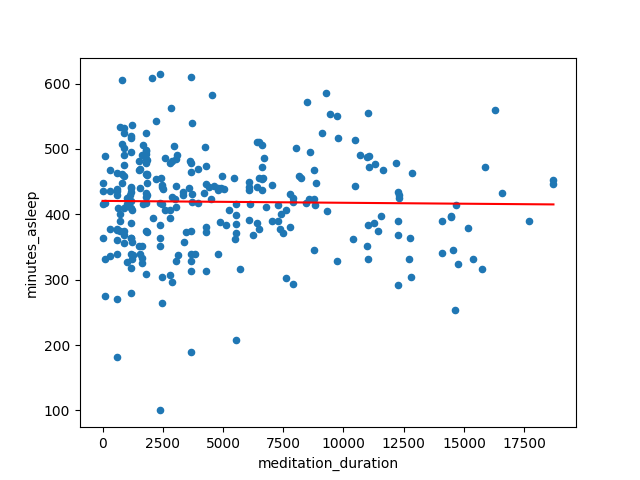
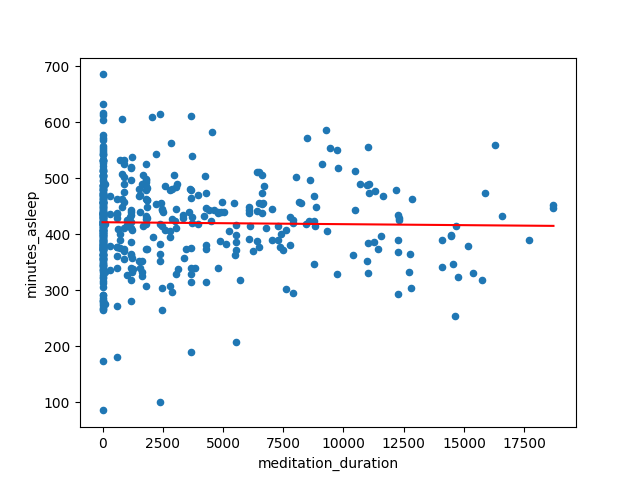
Expanded on expansion, better meditation code.

diff --git a/code/increasing/meditation.py b/code/increasing/meditation.py
@@ -109,12 +109,29 @@ aggregated=pd.merge_asof(sleep, checkpoints, left_on='start_time', right_on='che
 aggregated=aggregated[relevant_sleep_cols+['checkpoint']].groupby('checkpoint').sum()
 aggregated.reset_index(inplace=True)
 
-aggregated=pd.merge(aggregated, meditations, how='cross')
-aggregated=aggregated.loc[
-	(aggregated['checkpoint']-aggregated['meditation_end']<pd.Timedelta(backwards_horizon)) &
-	(aggregated['checkpoint']-aggregated['meditation_end']>pd.Timedelta('0d'))]
+daily_meditation = pd.DataFrame()
+daily_meditation['checkpoint'] = pd.date_range(start=first_sleep - pd.Timedelta(backwards_horizon), end=last_sleep, freq='1d') + pd.Timedelta('18h')
 
-aggregated=aggregated.groupby('checkpoint').agg({'meditation_duration': 'sum'} | {col: 'min' for col in relevant_sleep_cols})
+# Initialize with zero meditation time
+daily_meditation['meditation_duration'] = 0
+
+# For each meditation session, calculate which checkpoint it belongs to
+for _, meditation in meditations.iterrows():
+	# Find checkpoints that this meditation might affect (within backwards_horizon)
+	relevant_checkpoints = daily_meditation.loc[
+		(daily_meditation['checkpoint'] - meditation['meditation_end'] < pd.Timedelta(backwards_horizon)) &
+		(daily_meditation['checkpoint'] - meditation['meditation_end'] > pd.Timedelta('0d'))
+	]
+
+	# Add this meditation's duration to those checkpoints
+	if not relevant_checkpoints.empty:
+		daily_meditation.loc[relevant_checkpoints.index, 'meditation_duration'] += meditation['meditation_duration']
+
+# Merge sleep data with meditation data (left join to keep all sleep data)
+aggregated = pd.merge(aggregated, daily_meditation, on='checkpoint', how='left')
+
+# Fill any NaN meditation durations with 0 (for days with no meditation in range)
+aggregated['meditation_duration'] = aggregated['meditation_duration'].fillna(0)
 no_outliers=aggregated.loc[aggregated['meditation_duration']<8*3600]
 
 field='minutes_asleep'

diff --git a/nootropics.md b/nootropics.md
@@ -1,7 +1,7 @@
 [home](./index.md)
 -------------------
 
-*author: niplav, created: 2023-01-06, modified: 2025-02-01, language: english, status: maintenance, importance: 3, confidence: likely*
+*author: niplav, created: 2023-01-06, modified: 2025-04-14, language: english, status: maintenance, importance: 3, confidence: likely*
 
 > __Modeled after [Gwern 2018](https://www.gwern.net/Nootropics) I've
 decided to log my nootropics usage and its effects.__
@@ -663,13 +663,19 @@ link to PredictionBook/Fatebook.
 | `$\lambda<10$` for productivity values                                                                        |                                                      |                  | [60%](https://fatebook.io/q/-10-for-the-productivity-values-for--cln3nbkbo0003l708mzjft66f)    | Yes                | [70%](https://fatebook.io/q/-10-for-vitamin-d-productivity-values--cm73qxj6i0004nj9a9xplimvl)  |                    |
 | `$\lambda<10$` for creativity values                                                                          |                                                      |                  | [70%](https://fatebook.io/q/-10-for-the-creativity-values-for--cln3nbtwu0001jn08f6top2si)      | Yes                | [75%](https://fatebook.io/q/-10-for-vitamin-d-productivity-values--cm73qxj6i0004nj9a9xplimvl)  |                    |
 | __Subjective length__                                                                                         |                                                      |                  |                                                                                                |                    |                                                                                                |                    |
-| The average subjective length of intervention days was higher placebo days                                    |                                                      |                  |                                                                                                |                    | 60%                                                                                            |                    |
-| The average variance of subjective length of intervention days was higher than placebo days                   |                                                      |                  |                                                                                                |                    | 60%                                                                                            |                    |
-| `$\lambda<1$` for subjective length values                                                                    |                                                      |                  |                                                                                                |                    | 4%                                                                                             |                    |
-| `$\lambda<4$` for subjective length values                                                                    |                                                      |                  |                                                                                                |                    | 22%                                                                                            |                    |
-| `$\lambda<10$` for subjective length values                                                                   |                                                      |                  |                                                                                                |                    | 75%                                                                                            |                    |
+| The average subjective length of intervention days was higher placebo days                                    |                                                      |                  |                                                                                                |                    | [60%](The average subjective length of vitamin intervention days was higher placebo days)      |                    |
+| The average variance of subjective length of intervention days was higher than placebo days                   |                                                      |                  |                                                                                                |                    | [60%](https://fatebook.io/q/the-average-variance-of-subjective--cm9hffqiu0000q1mmr2lckvnz)     |                    |
+| `$\lambda<1$` for subjective length values                                                                    |                                                      |                  |                                                                                                |                    | [4%](https://fatebook.io/q/-1-for-vitamin-d-subjective-length--cm9hfgscj0001sodoy7lw1npg)      |                    |
+| `$\lambda<4$` for subjective length values                                                                    |                                                      |                  |                                                                                                |                    | [22%](https://fatebook.io/q/-4-for-vitamin-d-subjective-length--cm9hfhrrp00022thg02nqhjz2)     |                    |
+| `$\lambda<10$` for subjective length values                                                                   |                                                      |                  |                                                                                                |                    | [75%](https://fatebook.io/q/-10-for-vitamin-d-subjective-length--cm9hfil55000113sf6o9allpo)    |                    |
 
-I also recorded my predictions about the content of the pill on PredictionBook (Caffeine: [1](https://predictionbook.com/predictions/211311) [2](https://predictionbook.com/predictions/211312) [3](https://predictionbook.com/predictions/211313) [4](https://predictionbook.com/predictions/211314) [5](https://predictionbook.com/predictions/211857) [6](https://predictionbook.com/predictions/211858) [7](https://predictionbook.com/predictions/211859) [8](https://predictionbook.com/predictions/211860) [9](https://predictionbook.com/predictions/211861) [10](https://predictionbook.com/predictions/211862) [11](https://predictionbook.com/predictions/211863) [12](https://predictionbook.com/predictions/211864) [13](https://predictionbook.com/predictions/211865) [14](https://predictionbook.com/predictions/211866) [15](https://predictionbook.com/predictions/211867) [16](https://predictionbook.com/predictions/211868) [17](https://predictionbook.com/predictions/211869) [18](https://predictionbook.com/predictions/211870) [19](https://predictionbook.com/predictions/211871) [20](https://predictionbook.com/predictions/211872) [21](https://predictionbook.com/predictions/211873) [22](https://predictionbook.com/predictions/211874) [23](https://predictionbook.com/predictions/211875) [24](https://predictionbook.com/predictions/211876) [25](https://predictionbook.com/predictions/211877) [26](https://predictionbook.com/predictions/211878) [27](https://predictionbook.com/predictions/211879) [28](https://predictionbook.com/predictions/211880) [29](https://predictionbook.com/predictions/211967) [30](https://predictionbook.com/predictions/211968) [31](https://predictionbook.com/predictions/211969) [32](https://predictionbook.com/predictions/211970) [33](https://predictionbook.com/predictions/211971) [34](https://predictionbook.com/predictions/211972) [35](https://predictionbook.com/predictions/211973) [36](https://predictionbook.com/predictions/211974) [37](https://predictionbook.com/predictions/211975) [38](https://predictionbook.com/predictions/211976) [39](https://predictionbook.com/predictions/211881) [40](https://predictionbook.com/predictions/211882) [41](https://predictionbook.com/predictions/211883) [42](https://predictionbook.com/predictions/211884) [43](https://predictionbook.com/predictions/211885) [44](https://predictionbook.com/predictions/211886) [45](https://predictionbook.com/predictions/211887) [46](https://predictionbook.com/predictions/211888) [47](https://predictionbook.com/predictions/211889) [48](https://predictionbook.com/predictions/211890) [49](https://predictionbook.com/predictions/211891) [50](https://predictionbook.com/predictions/211892)) and Fatebook (L-theanine: [1](https://fatebook.io/q/b-1-was-l-theanine--cln3nlpzp0003lf0884psl2ib), [2](https://fatebook.io/q/b-2-was-l-theanine--cln3nlyxb0005lf08k0rajsdn), [3](https://fatebook.io/q/b-3-was-l-theanine--cln3nm7fe0007lf088nhg6c6c), [4](https://fatebook.io/q/b-4-was-l-theanine--cln3nmf250009lf08dxxykycc), [5](https://fatebook.io/q/b-5-was-l-theanine--cln3nmqpk000blf08qwo2g3fh), [6](https://fatebook.io/q/b-6-was-l-theanine--cln3nn1km000dlf088dneeojq), [7](https://fatebook.io/q/b-7-was-l-theanine--cln3nndil0001l6089v0s4ech), [8](https://fatebook.io/q/b-8-was-l-theanine--cln3nnotx0001l308a3d6yl3i), [9](https://fatebook.io/q/b-9-was-l-theanine--cln3nnzjk0001jg088mzwzaj9), [10](https://fatebook.io/q/b-10-was-l-theanine--cln3no8yp0005jy08nf3d6l5i), [11](https://fatebook.io/q/b-11-was-l-theanine--cln3noi4l0007jy08zy3rakyj), [12](https://fatebook.io/q/b-12-was-l-theanine--cln3nov1a0005l708x511km76), [13](https://fatebook.io/q/b-13-was-l-theanine--cln3np7ky0003mm08laa92q7k), [14](https://fatebook.io/q/b-14-was-l-theanine--cln3npguy0003l608jrpz8rl5), [15](https://fatebook.io/q/b-15-was-l-theanine--cln3npnq50005l6081tsw7nm4), [16](https://fatebook.io/q/b-16-was-l-theanine--cln3npydv0001mw089qn8n3i3), [17](https://fatebook.io/q/b-17-was-l-theanine--cln3nq5cd0009l3088vb790kx), [18](https://fatebook.io/q/b-18-was-l-theanine--cln3nqdb2000bl308j0zp8szo), [19](https://fatebook.io/q/b-19-was-l-theanine--cln3nqjwz000dl3086mhgtx0c), [20](https://fatebook.io/q/b-20-was-l-theanine--cln3nqs180009jy085s7hcb2j), [21](https://fatebook.io/q/b-21-was-l-theanine--cln3nr0n20009lc08gvz8dyqv), [22](https://fatebook.io/q/b-22-was-l-theanine--cln3nr6vl000blc08jvlqkop4), [23](https://fatebook.io/q/b-23-was-l-theanine--cln3nrdzp0001mb08hnsfx62p), [24](https://fatebook.io/q/b-24-was-l-theanine--cln3nrlwf0001lf08ze31fei4), [25](https://fatebook.io/q/b-25-was-l-theanine--cln3nrrj80003lf08oxvumyol), [26](https://fatebook.io/q/b-26-was-l-theanine--cln3nrz1e0003mb08lgpjnfcp), [27](https://fatebook.io/q/b-27-was-l-theanine--cln3ns73t0003mn0847juzfs6), [28](https://fatebook.io/q/b-28-was-l-theanine--cln3nshqo0005lf08weefbhh8), [29](https://fatebook.io/q/b-29-was-l-theanine--cln3nsob40001mm086d4h6h3x), [30](https://fatebook.io/q/b-30-was-l-theanine--cln3nsx8w0001jt08gl24gn3s), [31](https://fatebook.io/q/b-31-was-l-theanine--cln3nt98t0003mm084oan2rel), [32](https://fatebook.io/q/b-32-was-l-theanine--cln3nth3p0005mm08krm6qwlq), [33](https://fatebook.io/q/b-33-was-l-theanine--cln3ntlcu0007mm08suqrvb55), [34](https://fatebook.io/q/b-34-was-l-theanine--cln3ntqzl0009mm087nrhe6hj), [35](https://fatebook.io/q/b-35-was-l-theanine--cln3ntw12000bmm08ht8mls5l), [36](https://fatebook.io/q/b-36-was-l-theanine--cln3nuaar0001lh08cyhevs62), [37](https://fatebook.io/q/b-37-was-l-theanine--cln3nuh0j0003lh0839dl2j9b), [38](https://fatebook.io/q/b-38-was-l-theanine--cln3nupmh0001mr08kp6sd8as), [39](https://fatebook.io/q/b-39-was-l-theanine--cln3nuz1n0007l708p37hk2w3), [40](https://fatebook.io/q/b-40-was-l-theanine--cln3nvbmf000flf08y6ljte6w), [41](https://fatebook.io/q/b-41-was-l-theanine--cln3nyq7s000dlc08mogrfrxb), [42](https://fatebook.io/q/b-42-was-l-theanine--cln3nywvk0005mn0852sa7imk), [43](https://fatebook.io/q/b-43-was-l-theanine--cln3nz6ra0007lf088bfchitm), [44](https://fatebook.io/q/b-44-was-l-theanine--cln3nzh0g0003jo0808diqg88), [45](https://fatebook.io/q/b-45-was-l-theanine--cln3nzq2m0001l408ck1bh6ca), [46](https://fatebook.io/q/b-46-was-l-theanine--cln3nzzdx0005m808tp1ouvt6), [47](https://fatebook.io/q/b-47-was-l-theanine--cln3o07fx0003mr087ntixwuc), [48](https://fatebook.io/q/b-48-was-l-theanine--cln3o0hoe0001mh09gwb2hq2g), [49](https://fatebook.io/q/b-49-was-l-theanine--cln3o0sgd0001l309z03l6ire), [50](https://fatebook.io/q/b-50-was-l-theanine--cln3o0ywv0001l508g2gq1ykj)).
+<!--TODO: add reaction speed predictions for vitamin D₃-->
+
+I also recorded my predictions about the content of the pill on PredictionBook/Fatebook:
+
+* Caffeine: [1](https://predictionbook.com/predictions/211311) [2](https://predictionbook.com/predictions/211312) [3](https://predictionbook.com/predictions/211313) [4](https://predictionbook.com/predictions/211314) [5](https://predictionbook.com/predictions/211857) [6](https://predictionbook.com/predictions/211858) [7](https://predictionbook.com/predictions/211859) [8](https://predictionbook.com/predictions/211860) [9](https://predictionbook.com/predictions/211861) [10](https://predictionbook.com/predictions/211862) [11](https://predictionbook.com/predictions/211863) [12](https://predictionbook.com/predictions/211864) [13](https://predictionbook.com/predictions/211865) [14](https://predictionbook.com/predictions/211866) [15](https://predictionbook.com/predictions/211867) [16](https://predictionbook.com/predictions/211868) [17](https://predictionbook.com/predictions/211869) [18](https://predictionbook.com/predictions/211870) [19](https://predictionbook.com/predictions/211871) [20](https://predictionbook.com/predictions/211872) [21](https://predictionbook.com/predictions/211873) [22](https://predictionbook.com/predictions/211874) [23](https://predictionbook.com/predictions/211875) [24](https://predictionbook.com/predictions/211876) [25](https://predictionbook.com/predictions/211877) [26](https://predictionbook.com/predictions/211878) [27](https://predictionbook.com/predictions/211879) [28](https://predictionbook.com/predictions/211880) [29](https://predictionbook.com/predictions/211967) [30](https://predictionbook.com/predictions/211968) [31](https://predictionbook.com/predictions/211969) [32](https://predictionbook.com/predictions/211970) [33](https://predictionbook.com/predictions/211971) [34](https://predictionbook.com/predictions/211972) [35](https://predictionbook.com/predictions/211973) [36](https://predictionbook.com/predictions/211974) [37](https://predictionbook.com/predictions/211975) [38](https://predictionbook.com/predictions/211976) [39](https://predictionbook.com/predictions/211881) [40](https://predictionbook.com/predictions/211882) [41](https://predictionbook.com/predictions/211883) [42](https://predictionbook.com/predictions/211884) [43](https://predictionbook.com/predictions/211885) [44](https://predictionbook.com/predictions/211886) [45](https://predictionbook.com/predictions/211887) [46](https://predictionbook.com/predictions/211888) [47](https://predictionbook.com/predictions/211889) [48](https://predictionbook.com/predictions/211890) [49](https://predictionbook.com/predictions/211891) [50](https://predictionbook.com/predictions/211892))
+* L-theanine: [1](https://fatebook.io/q/b-1-was-l-theanine--cln3nlpzp0003lf0884psl2ib), [2](https://fatebook.io/q/b-2-was-l-theanine--cln3nlyxb0005lf08k0rajsdn), [3](https://fatebook.io/q/b-3-was-l-theanine--cln3nm7fe0007lf088nhg6c6c), [4](https://fatebook.io/q/b-4-was-l-theanine--cln3nmf250009lf08dxxykycc), [5](https://fatebook.io/q/b-5-was-l-theanine--cln3nmqpk000blf08qwo2g3fh), [6](https://fatebook.io/q/b-6-was-l-theanine--cln3nn1km000dlf088dneeojq), [7](https://fatebook.io/q/b-7-was-l-theanine--cln3nndil0001l6089v0s4ech), [8](https://fatebook.io/q/b-8-was-l-theanine--cln3nnotx0001l308a3d6yl3i), [9](https://fatebook.io/q/b-9-was-l-theanine--cln3nnzjk0001jg088mzwzaj9), [10](https://fatebook.io/q/b-10-was-l-theanine--cln3no8yp0005jy08nf3d6l5i), [11](https://fatebook.io/q/b-11-was-l-theanine--cln3noi4l0007jy08zy3rakyj), [12](https://fatebook.io/q/b-12-was-l-theanine--cln3nov1a0005l708x511km76), [13](https://fatebook.io/q/b-13-was-l-theanine--cln3np7ky0003mm08laa92q7k), [14](https://fatebook.io/q/b-14-was-l-theanine--cln3npguy0003l608jrpz8rl5), [15](https://fatebook.io/q/b-15-was-l-theanine--cln3npnq50005l6081tsw7nm4), [16](https://fatebook.io/q/b-16-was-l-theanine--cln3npydv0001mw089qn8n3i3), [17](https://fatebook.io/q/b-17-was-l-theanine--cln3nq5cd0009l3088vb790kx), [18](https://fatebook.io/q/b-18-was-l-theanine--cln3nqdb2000bl308j0zp8szo), [19](https://fatebook.io/q/b-19-was-l-theanine--cln3nqjwz000dl3086mhgtx0c), [20](https://fatebook.io/q/b-20-was-l-theanine--cln3nqs180009jy085s7hcb2j), [21](https://fatebook.io/q/b-21-was-l-theanine--cln3nr0n20009lc08gvz8dyqv), [22](https://fatebook.io/q/b-22-was-l-theanine--cln3nr6vl000blc08jvlqkop4), [23](https://fatebook.io/q/b-23-was-l-theanine--cln3nrdzp0001mb08hnsfx62p), [24](https://fatebook.io/q/b-24-was-l-theanine--cln3nrlwf0001lf08ze31fei4), [25](https://fatebook.io/q/b-25-was-l-theanine--cln3nrrj80003lf08oxvumyol), [26](https://fatebook.io/q/b-26-was-l-theanine--cln3nrz1e0003mb08lgpjnfcp), [27](https://fatebook.io/q/b-27-was-l-theanine--cln3ns73t0003mn0847juzfs6), [28](https://fatebook.io/q/b-28-was-l-theanine--cln3nshqo0005lf08weefbhh8), [29](https://fatebook.io/q/b-29-was-l-theanine--cln3nsob40001mm086d4h6h3x), [30](https://fatebook.io/q/b-30-was-l-theanine--cln3nsx8w0001jt08gl24gn3s), [31](https://fatebook.io/q/b-31-was-l-theanine--cln3nt98t0003mm084oan2rel), [32](https://fatebook.io/q/b-32-was-l-theanine--cln3nth3p0005mm08krm6qwlq), [33](https://fatebook.io/q/b-33-was-l-theanine--cln3ntlcu0007mm08suqrvb55), [34](https://fatebook.io/q/b-34-was-l-theanine--cln3ntqzl0009mm087nrhe6hj), [35](https://fatebook.io/q/b-35-was-l-theanine--cln3ntw12000bmm08ht8mls5l), [36](https://fatebook.io/q/b-36-was-l-theanine--cln3nuaar0001lh08cyhevs62), [37](https://fatebook.io/q/b-37-was-l-theanine--cln3nuh0j0003lh0839dl2j9b), [38](https://fatebook.io/q/b-38-was-l-theanine--cln3nupmh0001mr08kp6sd8as), [39](https://fatebook.io/q/b-39-was-l-theanine--cln3nuz1n0007l708p37hk2w3), [40](https://fatebook.io/q/b-40-was-l-theanine--cln3nvbmf000flf08y6ljte6w), [41](https://fatebook.io/q/b-41-was-l-theanine--cln3nyq7s000dlc08mogrfrxb), [42](https://fatebook.io/q/b-42-was-l-theanine--cln3nywvk0005mn0852sa7imk), [43](https://fatebook.io/q/b-43-was-l-theanine--cln3nz6ra0007lf088bfchitm), [44](https://fatebook.io/q/b-44-was-l-theanine--cln3nzh0g0003jo0808diqg88), [45](https://fatebook.io/q/b-45-was-l-theanine--cln3nzq2m0001l408ck1bh6ca), [46](https://fatebook.io/q/b-46-was-l-theanine--cln3nzzdx0005m808tp1ouvt6), [47](https://fatebook.io/q/b-47-was-l-theanine--cln3o07fx0003mr087ntixwuc), [48](https://fatebook.io/q/b-48-was-l-theanine--cln3o0hoe0001mh09gwb2hq2g), [49](https://fatebook.io/q/b-49-was-l-theanine--cln3o0sgd0001l309z03l6ire), [50](https://fatebook.io/q/b-50-was-l-theanine--cln3o0ywv0001l508g2gq1ykj)).
+* Vitamin D₃: <!--TODO-->
 
 I continue to be *worse than chance* in my predictions on the outcomes
 of my own experiments:

diff --git a/expansion.md b/expansion.md
@@ -1,0 +1,114 @@
+[home](./index.md)
+------------------
+
+*author: niplav, created: 2025-04-16, modified: 2025-04-16, language: english, status: in progress, importance: 7, confidence: certain*
+
+> __.__
+
+Model Expansion and AI Alignment
+=================================
+
+> Suchst du das Unermeßliche hier, du hast dich geirret,
+Meine Größe ist die, größer zu machen dich selbst.
+
+*—Friedrich Schiller, “Kleinigkeiten”, 1805*
+
+The current trajectory of building superintelligent AI systems is
+omnicidally dangerous<sub>60%</sub>.
+
+One way to make it slightly less dangerous is to train small AI models
+first, check them for their safety properties *and/or* train them so that
+they satisfy some safety properties, and then use the weights of those
+AI models to train larger AI models. In machine learning this process
+of training a bigger model initialized with a smaller model is called
+**model expansion**.
+
+![](./img/expansion/diagram.png)
+
+*Diagram from [Wang et al. 2023](https://arxiv.org/abs/2310.07999)*
+
+To my knowledge, model expansion is not used in training frontier
+AI models.
+
+There's four reasons why I think that this kind of training would be
+safer than pre-training from scratch with randomly initialized weights.
+
+### Building on inductive biases favoring speed over simplicity
+
+I don't think humanity yet has a good theory for the inductive biases
+of neural networks, initial attempts include the [neural tangent
+kernel](https://en.wikipedia.org/wiki/Neural_tangent_kernel)
+and [singular learning theory and its focus on
+error-correction](https://www.lesswrong.com/posts/nWRj6Ey8e5siAEXbK/simple-versus-short-higher-order-degeneracy-and-error-1).
+
+My current model is something like this:
+Training neural networks performs [Solomonoff
+induction](https://en.wikipedia.org/wiki/Solomonoff_induction),
+but limited to programs of some maximum length
+`$l$` and some maximum runtime `$t$` (similar to
+[AIXI-tl](https://en.wikipedia.org/wiki/AIXI#Computational_aspects),
+where I'm not sure what the prior is. `$l$` is upper-bounded by the
+information-content of the weights of the network: The number of bits in
+the program is pre-determined by how much you can fit into the floats of
+the weights. `$t$` is upper-bounded by the number of layers, as one can
+only do as many operations on the data passed through the activations
+as there are layers (or layer-equivalents).[^error]
+
+[^error]: Someone<!--TODO: who again? janbam? the evangelion angel pfp guy?--> on twitter suggested that if we regard models as executing many short programs in superposition<!--TODO: toy models of superposition when read-->, then [SGD](https://en.wikipedia.org/wiki/Stochastic_Gradient_Descent) may select for (1) error-correction, since programs do sometimes interfere with each other, and each program needs to correct its own data after interference (intuitively recapitulating the singular learning story), and (2) for [modularity](https://www.lesswrong.com/posts/JBFHzfPkXHB2XfDGj), since the end result of the individual programs needs to be combined together before producing an output.
+
+If we're worried about [deceptive
+alignment](https://www.lesswrong.com/s/r9tYkB2a8Fp4DN8yB/p/zthDPAjh9w6Ytbeks),
+then we're arguendo most worried about selecting from programs with a
+high `$t$`—many reasoning steps, even for short programs, probably
+favor deception, tomfoolery, bamboozlement, shenanigans, trickery &c.
+
+Model expansion here can help: We can *start* with a fairly wide but
+shallow network, and train that on the task, so that the resulting network
+is almost certainly non-scheming. But that network may have fairly low
+capabilities given that it can't do much sophisticated internal reasoning
+(though we may want to keep it that way?<!--TODO: link something that
+argues for visible CoT vs. neuralese-->). So we can expand our model in
+its depth, and continue training it, but with the advantage of having
+some non-scheming structure to build upon.
+
+In general, training in this way gives more control over when speed
+should be favored, and when simplicity should be favored.
+
+### Understanding smaller models is easier.
+
+### Inheriting safety properties from previous models.
+
+When training smaller models to fulfill some behavioral safety
+criterion, it's more likely that the smaller model learns the
+concept we're trying to instill directly; be it [environmental
+goals](https://arbital.com/p/environmental_goals/),
+[low impact](https://arbital.com/p/low_impact/), [mild
+optimization](https://arbital.com/p/soft_optimizer/) &c. During model
+expansion, we may be able to track how the original learned the concept
+and then evaluate how the learned concept changes during further training,
+being able to better control how the concept generalizes.
+
+### Allowing for more gradual scaling
+
+As opposed to ever bigger pre-training runs.
+
+### Open questions
+
+1. Is this just a capability nerf?
+2. Is this just a capability bump?
+3. How much information from the small network gets overwritten?
+4. Do circuits from pre-expansion training stick around?
+5. Do the inductive biases of the deeper network "overwhelm" the available circuits in the smaller model?
+
+In an ambitious vision, training after model expansion is a tiny
+step towards a craft of intelligence: one in which different stages
+of a model are trained with different data, invariances are kept
+across scalings, interpretability tools transfer partially (or
+completely) because sometimes weights can be frozen, tracking [model
+splintering](https://www.lesswrong.com/s/kjcioCkqSSS4LiMAe/p/k54rgSg7GcjtXnMHX)…
+
+See Also
+---------
+
+* [Inductive biases stick around (Evan Hubinger, 2019)](https://www.lesswrong.com/posts/nGqzNC6uNueum2w8T/inductive-biases-stick-around)
+* [Risks from Learned Optimization (Hubinger et al., 2019)](https://arxiv.org/abs/1906.01820)

diff --git a/notes.md b/notes.md
@@ -1,7 +1,7 @@
 [home](./index.md)
 -------------------
 
-*author: niplav, created: 2019-05-22, modified: 2025-03-17, language: english, status: in progress, importance: 3, confidence: other*
+*author: niplav, created: 2019-05-22, modified: 2025-04-16, language: english, status: in progress, importance: 3, confidence: other*
 
 > __Short texts on different topics.__
 
@@ -2219,12 +2219,14 @@ by one or more of the black holes in the direction of travel.
 2023](https://www.goodreads.com/book/show/42275384-grand-futures), p. 460*
 
 The black holes would "mop up" the intergalactic medium as the
-craft would move through it, increasing in mass[^1]. The heat of the
+craft would move through it, increasing in mass[^charged]. The heat of the
 intergalactic medium would be converted to the mass of the black hole,
 as black holes don't have any temperature and are [excellent heat
 sinks](https://www.weidai.com/black-holes.txt); instead they emit
 [Hawking radiation](https://en.wikipedia.org/wiki/Hawking_Radiation)
 in the black body spectrum.
+
+[^charged]: I don't know whether the intergalactic medium is charged, if so the black holes would also accumulate charge. I assume that on a medium scale the intergalactic medium is fairly evenly distributed, so I don't think they'd accumulate angular momentum.
 
 One option is to use such black hole
 [mops](https://en.wikipedia.org/wiki/Mop) in intergalactic colonization,
@@ -2290,16 +2292,20 @@ some __centaur operation__ `$C$`. Then there can exist some `$j≥i$`
 so that `$A_j⊏C(A_j, H)$`: that is, under a centaur setup humans and
 AIs together still beat AIs alone.
 
-But there can then be a smallest `$k \in ℕ$`[^3] so that `$C(A_k, H)⊏A_k$`:
+But there can then be a smallest `$k \in ℕ$`[^simplicity] so that `$C(A_k, H)⊏A_k$`:
 the human just detracts from the performance of the AI—unhelpful
 noise to a towering mind. Such AI systems have been called
 __[efficient](https://arbital.com/p/efficiency/)__ with respect to humans,
 either epistemically or instrumentally.
 
+[^simplicity]: For the sake of simplicity I'm assuming that `$i, j, k$` exist here.
+
 We can then call the gap between the first AI that beats humans and
 the first AI that beats human-AI centaurs the __centaur gap__ (i.e.,
 in terms of iterations of the AI, the number `$k-i$`)—the time that
-humans are still relevant in a world with superintelligent AIs[^2].
+humans are still relevant in a world with superintelligent AIs[^barring].
+
+[^barring]: Barring things like intrinsic value or comparative advantage.
 
 This centaur gap could be effectively zero in
 some domains such as arithmetic, and lasted ~14
@@ -2453,44 +2459,7 @@ Moved [here](./patching.html).
 Model Expansion and AI Alignment
 ---------------------------------
 
-The current trajectory of building superintelligent AI systems is
-omnicidally dangerous<sub>60%</sub>.
-
-One way to make it slightly less dangerous is to train small AI models
-first, check them for their safety properties, and then use the weights
-of those AI models to train larger AI models. In machine learning this
-process of training a bigger model initialized with a smaller model is
-called **model expansion**.
-
-![](./img/expansion/diagram.png)
-
-*Diagram from [Wang et al. 2023](https://arxiv.org/abs/2310.07999)*
-
-To my knowledge, model expansion is not used in training frontier
-AI models.
-
-There's two reasons why I think that this kind of training would be
-safer than pre-training from scratch with randomly initialized weights:
-
-<!--TODO: continue below-->
-
-1. Inheriting safety properties from previous models.
-2. Building on inductive biases favoring speed over simplicity.
-3. Allowing for more gradual scaling, as opposed to ever bigger pre-training runs.
-
-Open questions:
-
-1. Is this just a capability nerf?
-2. Is this just a capability bump?
-3. How much information from the small network gets overwritten?
-4. Do the inductive biases of the deeper network "overwhelm" the available circuits in the smaller model?
-
-In an ambitious vision, training after model expansion is a tiny
-step towards a craft of intelligence: one in which different stages
-of a model are trained with different data, invariances are kept
-across scalings, interpretability tools transfer partially (or
-completely) because sometimes weights can be frozen, tracking [model
-splintering](https://www.lesswrong.com/s/kjcioCkqSSS4LiMAe/p/k54rgSg7GcjtXnMHX)…
+Moved [here](./expansion.html).
 
 How Is Human Intelligence Distributed
 --------------------------------------
@@ -2555,6 +2524,4 @@ Notes:
 
 * [@quetzal\_rainbow](https://x.com/quetzal_rainbow/status/1910948346887368819): "There seems to be genetic difference between speed and accuracy. Tasks that depend on going and iterating fast are normal, tasks where you need to do everything perfectly are lognormal"
 
-[^1]: I don't know whether the intergalactic medium is charged, if so the black holes would also accumulate charge. I assume that on a medium scale the intergalactic medium is fairly evenly distributed, so I don't think they'd accumulate angular momentum.
-[^2]: Barring things like intrinsic value or comparative advantage.
-[^3]: For the sake of simplicity I'm assuming that `$i, j, k$` exist here.
+<!--TODO: incorporate https://claude.ai/chat/2abf0c08-36ca-45ce-9a97-821647fe7b65-->

diff --git a/fullindex.md b/fullindex.md
@@ -54,6 +54,7 @@ you’d like to forward
 * [Turning Some Inconsistent Preferences Into Consistent Ones](./turning.html)
 * [Resolving von Neumann-Morgenstern Inconsistent Preferences](./resolving.html)
 	* Summary: [تهافت أنظمة الذكاء الاصطناعي](./tahafut.html)
+* [Model Expansion and AI Alignment](./expansion.html)
 * [Avoiding Wireheading via Convergent Interventional Avoidanceⁿ](./wireheading.html)
 * [Too Good to be True: Training an RL Agent to be Suspicious](./suspicious.html)
 

diff --git a/language.md b/language.md
@@ -598,7 +598,7 @@ Missing Emoji
 * Blanket
 * Pillow
 * Carriage
-* Galaxy
+* Guillotine
 * Toast (using [skin tone indicators](https://en.wikipedia.org/wiki/Emoji#Skin_color) to signify various levels of crispness)
 * [Lime](https://x.com/mulltuhh/status/1799816080875233538)
 * [Various egypt-themed emoji](http://nitter.poast.org/hum_dunkin/status/1776579149739528668)

diff --git a/changelog.md b/changelog.md
@@ -23,6 +23,9 @@ the content is a copy of each monthly changelog. [Here's the RSS
 feed](https://niplav.substack.com/feed). Don't expect any *different*
 content.
 
+April 2025
+----------
+
 March 2025
 -----------
 
